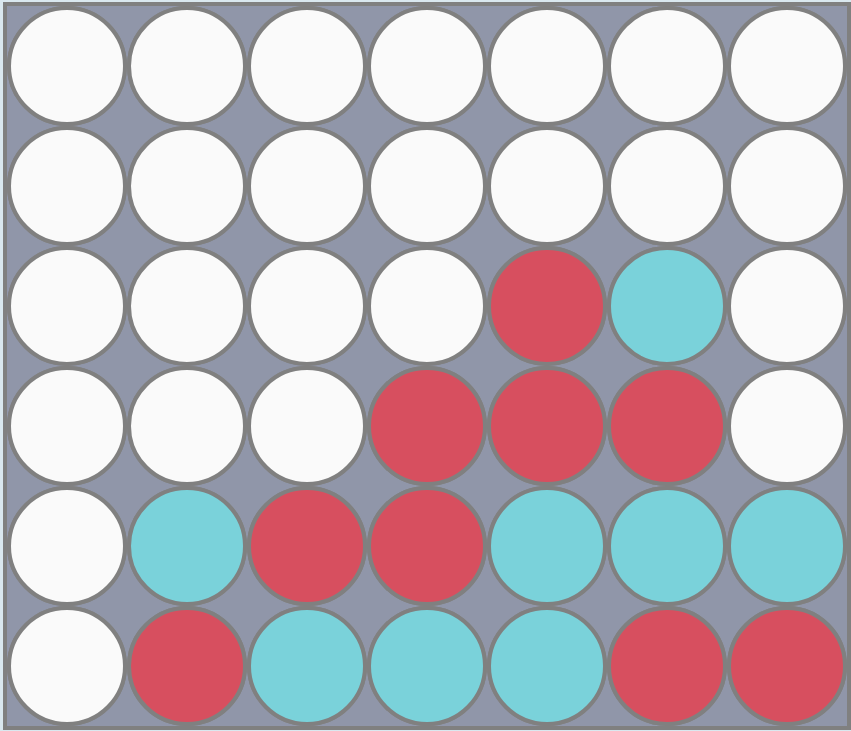
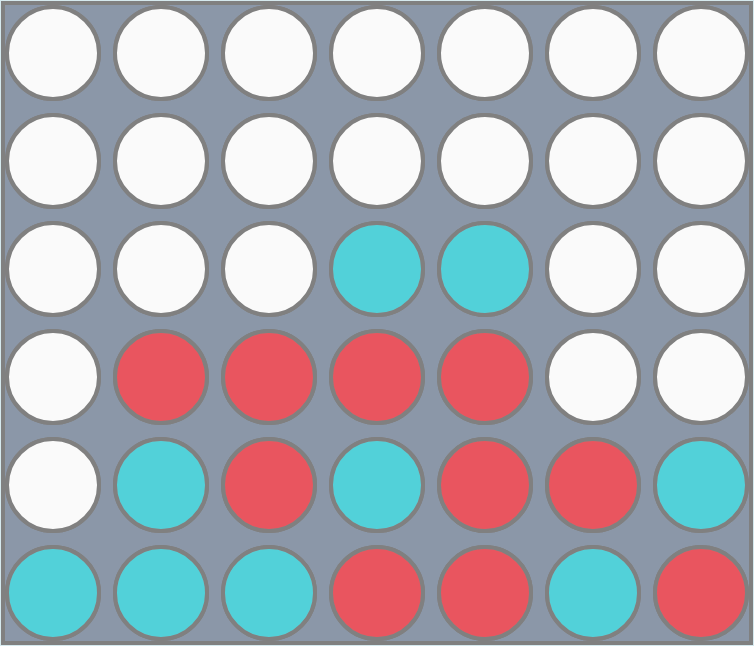
make smaller the boardgame and the pieces

diff --git a/src/components/Board/Board.css b/src/components/Board/Board.css
@@ -1,58 +1,58 @@
 .box-position-0-0 { transform: translate(0, 0); }
-.box-position-0-1 { transform: translate(10rem, 0); }
-.box-position-0-2 { transform: translate(20rem, 0); }
-.box-position-0-3 { transform: translate(30rem, 0); }
-.box-position-0-4 { transform: translate(40rem, 0); }
-.box-position-0-5 { transform: translate(50rem, 0); }
-.box-position-0-6 { transform: translate(60rem, 0); }
+.box-position-0-1 { transform: translate(9rem, 0); }
+.box-position-0-2 { transform: translate(18rem, 0); }
+.box-position-0-3 { transform: translate(27rem, 0); }
+.box-position-0-4 { transform: translate(36rem, 0); }
+.box-position-0-5 { transform: translate(45rem, 0); }
+.box-position-0-6 { transform: translate(54rem, 0); }
 
-.box-position-1-0 { transform: translate(0, 10rem); }
-.box-position-1-1 { transform: translate(10rem, 10rem); }
-.box-position-1-2 { transform: translate(20rem, 10rem); }
-.box-position-1-3 { transform: translate(30rem, 10rem); }
-.box-position-1-4 { transform: translate(40rem, 10rem); }
-.box-position-1-5 { transform: translate(50rem, 10rem); }
-.box-position-1-6 { transform: translate(60rem, 10rem); }
+.box-position-1-0 { transform: translate(0, 9rem); }
+.box-position-1-1 { transform: translate(9rem, 9rem); }
+.box-position-1-2 { transform: translate(18rem, 9rem); }
+.box-position-1-3 { transform: translate(27rem, 9rem); }
+.box-position-1-4 { transform: translate(36rem, 9rem); }
+.box-position-1-5 { transform: translate(45rem, 9rem); }
+.box-position-1-6 { transform: translate(54rem, 9rem); }
 
-.box-position-2-0 { transform: translate(0, 20rem); }
-.box-position-2-1 { transform: translate(10rem, 20rem); }
-.box-position-2-2 { transform: translate(20rem, 20rem); }
-.box-position-2-3 { transform: translate(30rem, 20rem); }
-.box-position-2-4 { transform: translate(40rem, 20rem); }
-.box-position-2-5 { transform: translate(50rem, 20rem); }
-.box-position-2-6 { transform: translate(60rem, 20rem); }
+.box-position-2-0 { transform: translate(0, 18rem); }
+.box-position-2-1 { transform: translate(9rem, 18rem); }
+.box-position-2-2 { transform: translate(18rem, 18rem); }
+.box-position-2-3 { transform: translate(27rem, 18rem); }
+.box-position-2-4 { transform: translate(36rem, 18rem); }
+.box-position-2-5 { transform: translate(45rem, 18rem); }
+.box-position-2-6 { transform: translate(54rem, 18rem); }
 
-.box-position-3-0 { transform: translate(0, 30rem); }
-.box-position-3-1 { transform: translate(10rem, 30rem); }
-.box-position-3-2 { transform: translate(20rem, 30rem); }
-.box-position-3-3 { transform: translate(30rem, 30rem); }
-.box-position-3-4 { transform: translate(40rem, 30rem); }
-.box-position-3-5 { transform: translate(50rem, 30rem); }
-.box-position-3-6 { transform: translate(60rem, 30rem); }
+.box-position-3-0 { transform: translate(0, 27rem); }
+.box-position-3-1 { transform: translate(9rem, 27rem); }
+.box-position-3-2 { transform: translate(18rem, 27rem); }
+.box-position-3-3 { transform: translate(27rem, 27rem); }
+.box-position-3-4 { transform: translate(36rem, 27rem); }
+.box-position-3-5 { transform: translate(45rem, 27rem); }
+.box-position-3-6 { transform: translate(54rem, 27rem); }
 
-.box-position-4-0 { transform: translate(0, 40rem); }
-.box-position-4-1 { transform: translate(10rem, 40rem); }
-.box-position-4-2 { transform: translate(20rem, 40rem); }
-.box-position-4-3 { transform: translate(30rem, 40rem); }
-.box-position-4-4 { transform: translate(40rem, 40rem); }
-.box-position-4-5 { transform: translate(50rem, 40rem); }
-.box-position-4-6 { transform: translate(60rem, 40rem); }
+.box-position-4-0 { transform: translate(0, 36rem); }
+.box-position-4-1 { transform: translate(9rem, 36rem); }
+.box-position-4-2 { transform: translate(18rem, 36rem); }
+.box-position-4-3 { transform: translate(27rem, 36rem); }
+.box-position-4-4 { transform: translate(36rem, 36rem); }
+.box-position-4-5 { transform: translate(45rem, 36rem); }
+.box-position-4-6 { transform: translate(54rem, 36rem); }
 
-.box-position-5-0 { transform: translate(0, 50rem); }
-.box-position-5-1 { transform: translate(10rem, 50rem); }
-.box-position-5-2 { transform: translate(20rem, 50rem); }
-.box-position-5-3 { transform: translate(30rem, 50rem); }
-.box-position-5-4 { transform: translate(40rem, 50rem); }
-.box-position-5-5 { transform: translate(50rem, 50rem); }
-.box-position-5-6 { transform: translate(60rem, 50rem); }
+.box-position-5-0 { transform: translate(0, 45rem); }
+.box-position-5-1 { transform: translate(9rem, 45rem); }
+.box-position-5-2 { transform: translate(18rem, 45rem); }
+.box-position-5-3 { transform: translate(27rem, 45rem); }
+.box-position-5-4 { transform: translate(36rem, 45rem); }
+.box-position-5-5 { transform: translate(45rem, 45rem); }
+.box-position-5-6 { transform: translate(54rem, 45rem); }
 
 
 .empty-cell,
 .box {
   background: rgba(225, 226, 241, 0.5);
   box-sizing: border-box;
-  height: 10rem;
-  width: 10rem;
+  height: 8rem;
+  width: 8rem;
   text-align: center;
   border: 1px solid;
 }
@@ -73,16 +73,16 @@
   border-radius: 100%;
   z-index: 1;
   color: white;
-  height: 10rem;
-  width: 10rem;
+  height: 8rem;
+  width: 8rem;
 }
 .blue {
   background-color: #77cfda;
   border-radius: 100%;
   z-index: 1;
   color: white;
-  height: 10rem;
-  width: 10rem;
+  height: 8rem;
+  width: 8rem;
 }
 .inactive {
   border-radius: 100%;

diff --git a/src/components/SinglePlayer/SinglePlayer.js b/src/components/SinglePlayer/SinglePlayer.js
@@ -278,7 +278,6 @@ class SinglePlayer extends Component {
     setTimeout(() => {
       if(this.state.player === 'Player 1') {
         let decisionPc = this.artificialInteligence()
-        console.log(decisionPc)
         this.putAPiece(decisionPc);
         this.checkIfWinner('blue')
       }}, 500)

diff --git a/src/App.css b/src/App.css
@@ -59,8 +59,10 @@ a {
   flex-direction: column;
 }
 .boardGame-container {
-  height: 60rem;
-  width: 70rem;
+  sssheight: 60rem;
+  ssswidth: 70rem;
+  height: 53rem;
+  width: 62rem;
   background: rgba(69, 71, 100, 0.5);
   border: 4px solid grey;
 }
